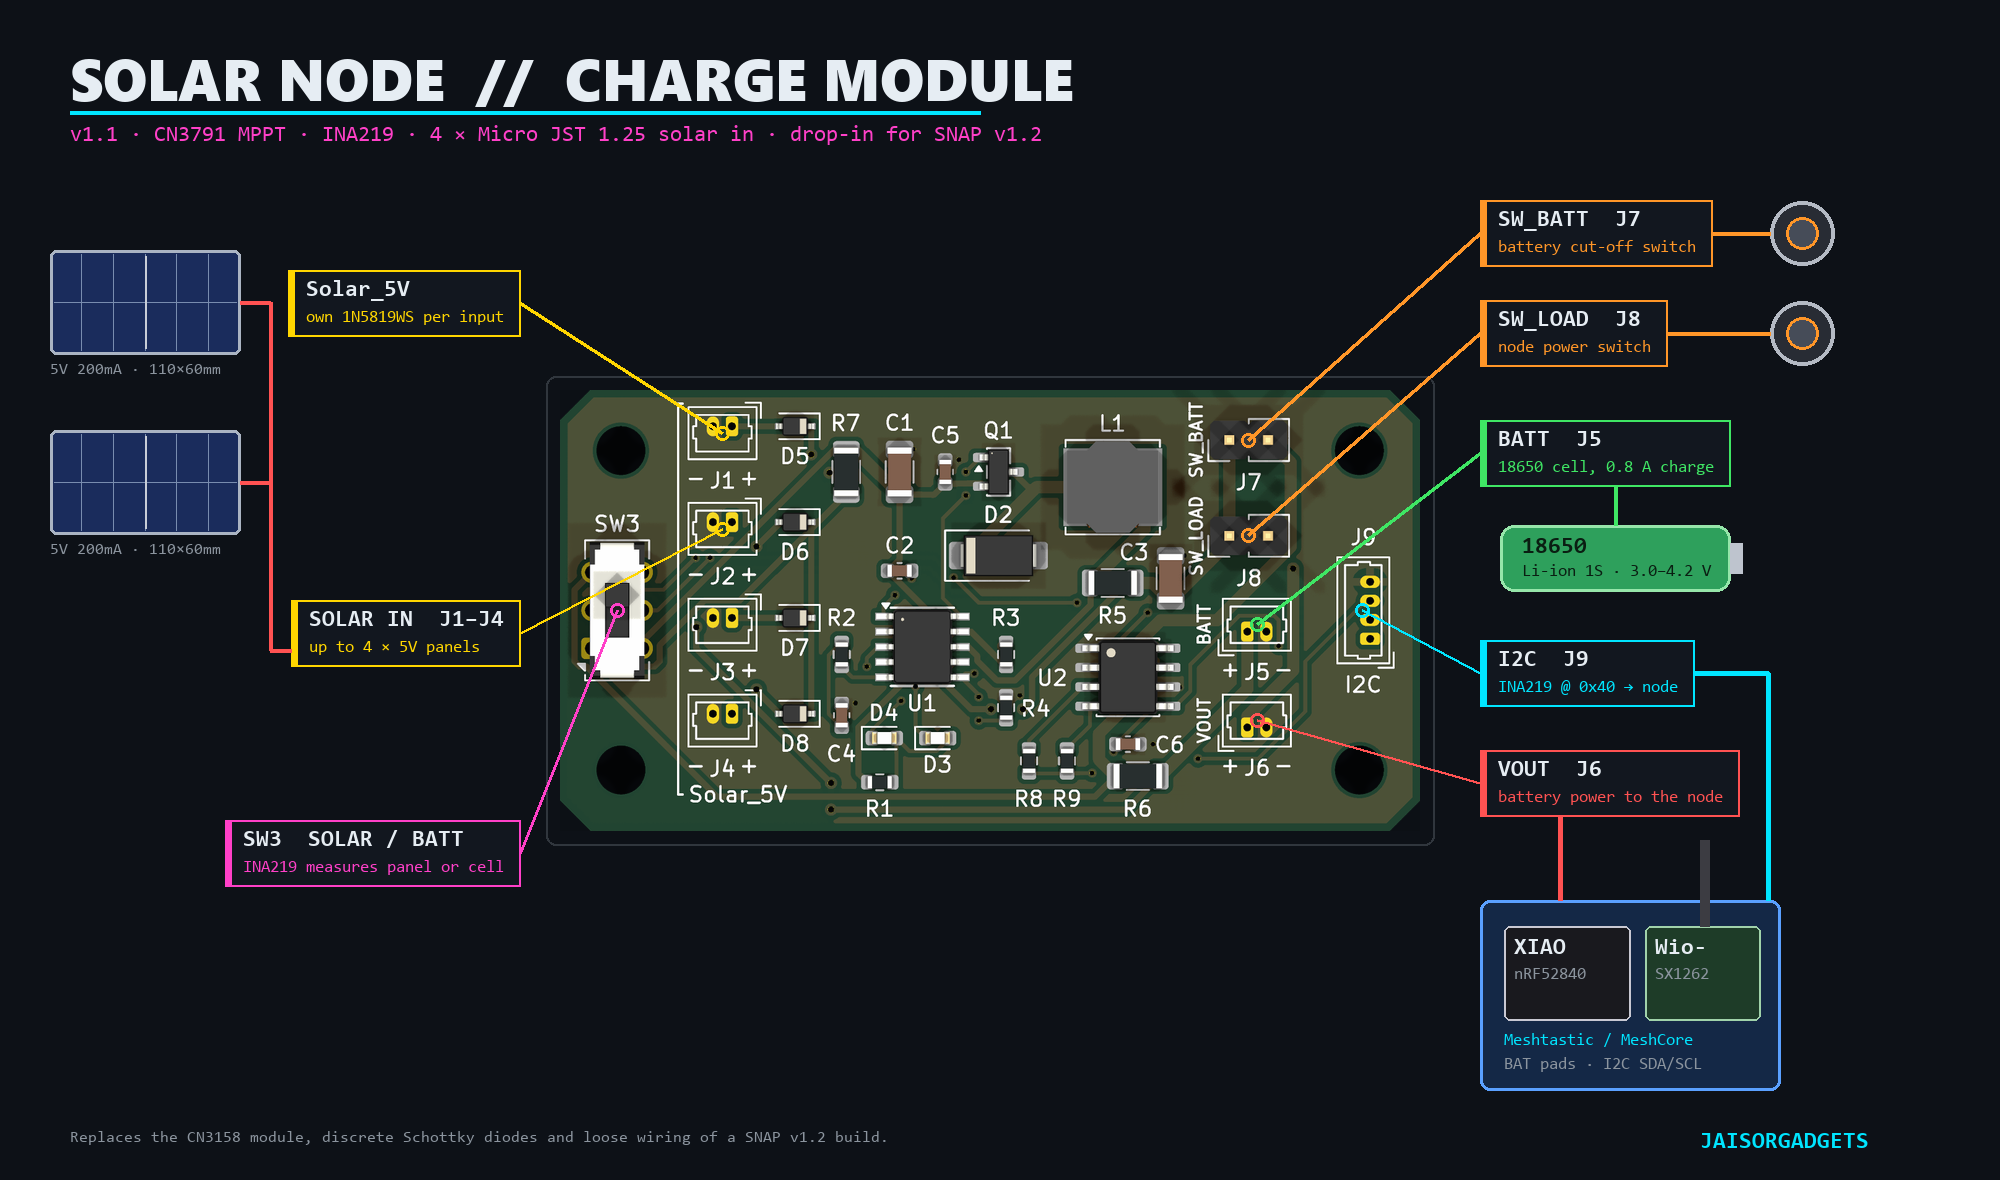
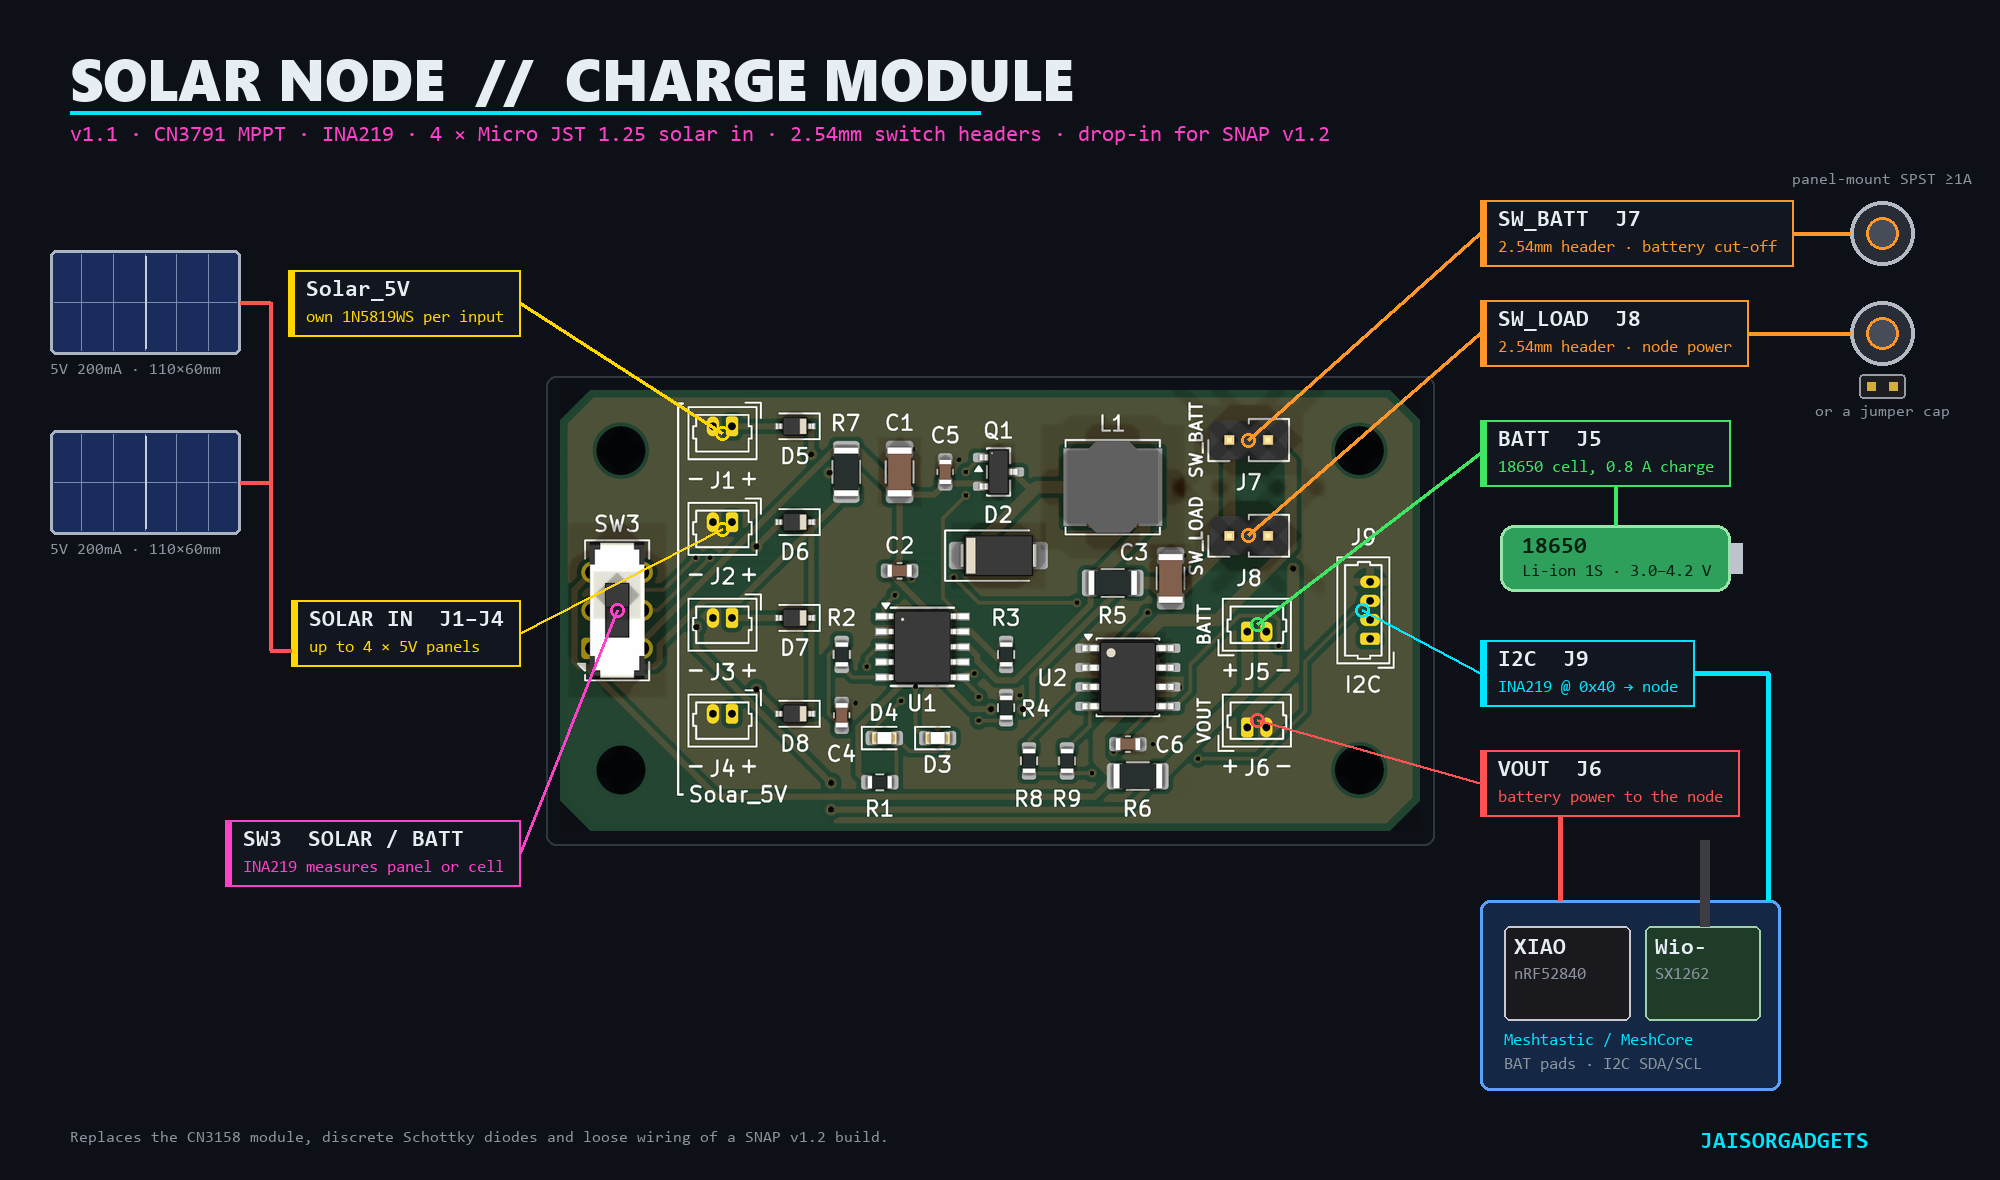
docs: show the J7/J8 pin headers in the wiring diagram
The board render already showed the 2.54mm headers, but the callouts and
subtitle still described the switch connectors as JST. Label J7 and J8 as
2.54mm headers, note that a jumper cap can replace an unused switch, and
move the switches right so the wider callouts fit.

Changed region(s): [[0.744, 0.1525, 0.961, 0.3661], [0.403, 0.0915, 0.651, 0.122]]

diff --git a/tools/make-diagram.py b/tools/make-diagram.py
@@ -34,7 +34,7 @@ d = ImageDraw.Draw(img)
 # Title, in the style of the SNAP component map
 d.text((70, 38), "SOLAR NODE  //  CHARGE MODULE", font=title_font, fill=INK)
 d.line((70, 112, 980, 112), fill=CYAN, width=4)
-d.text((70, 124), "v1.1 · CN3791 MPPT · INA219 · 4 × Micro JST 1.25 solar in · drop-in for SNAP v1.2",
+d.text((70, 124), "v1.1 · CN3791 MPPT · INA219 · 4 × Micro JST 1.25 solar in · 2.54mm switch headers · drop-in for SNAP v1.2",
        font=sub_font, fill=MAGENTA)
 
 # Board render: crop to the board itself (non-transparent, non-shadow pixels)
@@ -94,6 +94,13 @@ def switch(x, y, label):
     d.text((x + 80, y + 20), label, font=small, fill=DIM)
 
 
+def jumper_cap(x, y):
+    """2.54mm jumper cap seen from above, bridging the two header pins."""
+    d.rounded_rectangle((x, y, x + 46, y + 24), radius=4, fill=(30, 30, 34), outline=(150, 156, 166), width=2)
+    for px in (x + 12, x + 34):
+        d.rectangle((px - 4, y + 8, px + 4, y + 16), fill=(212, 175, 55))
+
+
 def cell18650(x, y):
     """18650 Li-ion cell lying on its side."""
     d.rounded_rectangle((x, y, x + 230, y + 66), radius=14, fill=(46, 160, 92), outline=(150, 230, 170), width=3)
@@ -126,15 +133,19 @@ for py in (302, 482):
 callout("SW3", (520, 820), MAGENTA, "SW3  SOLAR / BATT", "INA219 measures panel or cell", "left")
 
 # Right side: switches, battery, node
-sw_batt = callout("J7", (1480, 200), ORANGE, "SW_BATT  J7", "battery cut-off switch", "right")
-sw_load = callout("J8", (1480, 300), ORANGE, "SW_LOAD  J8", "node power switch", "right")
+sw_batt = callout("J7", (1480, 200), ORANGE, "SW_BATT  J7", "2.54mm header · battery cut-off", "right")
+sw_load = callout("J8", (1480, 300), ORANGE, "SW_LOAD  J8", "2.54mm header · node power", "right")
 batt = callout("J5", (1480, 420), GREEN, "BATT  J5", "18650 cell, 0.8 A charge", "right")
 i2c = callout("J9", (1480, 640), CYAN, "I2C  J9", "INA219 @ 0x40 → node", "right")
 vout = callout("J6", (1480, 750), RED, "VOUT  J6", "battery power to the node", "right")
-switch(1770, 201, "")
-switch(1770, 301, "")
-wire([(sw_batt[2], 233), (1770, 233)], ORANGE, 4)
-wire([(sw_load[2], 333), (1770, 333)], ORANGE, 4)
+SWX = 1850  # switch column, right of the widest callout box
+switch(SWX, 201, "")
+switch(SWX, 301, "")
+for text, ty in (("panel-mount SPST ≥1A", 172), ("or a jumper cap", 404)):
+    d.text((SWX + 32 - d.textlength(text, font=small) / 2, ty), text, font=small, fill=DIM)
+jumper_cap(SWX + 9, 374)
+wire([(sw_batt[2], 233), (SWX, 233)], ORANGE, 4)
+wire([(sw_load[2], 333), (SWX, 333)], ORANGE, 4)
 cell18650(1500, 525)
 wire([(1615, batt[3]), (1615, 525)], GREEN, 4)
 node(1480, 900)
